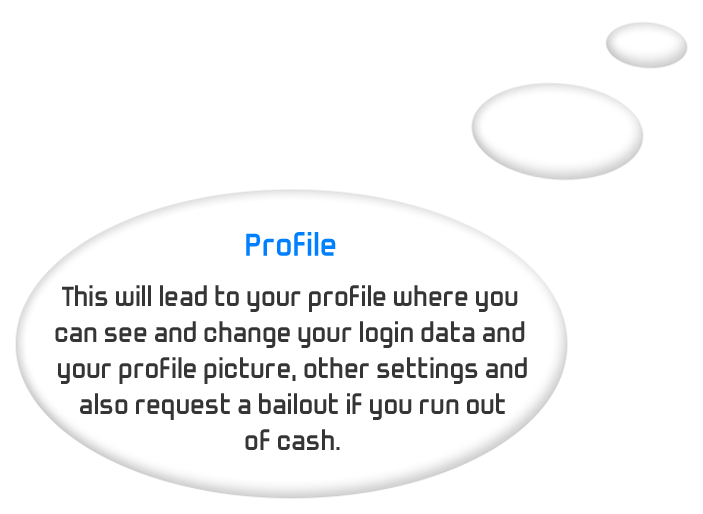
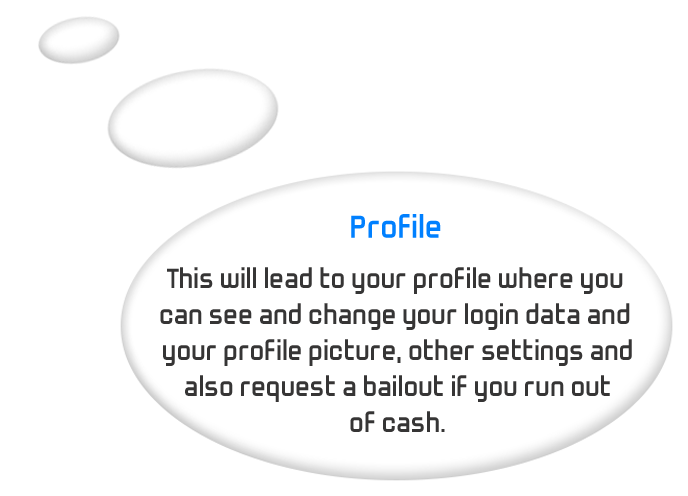
@vishal : intro screen in changes..

diff --git a/lib/screens/intro_screen.dart b/lib/screens/intro_screen.dart
@@ -16,9 +16,6 @@ import '../commonview/header.dart';
 import 'dashboard_game.dart';
 import '../helper/constant.dart';
 
-
-
-
 class FadeRouteIntro extends PageRouteBuilder {
   final Widget page;
 
@@ -51,7 +48,7 @@ class IntroPage extends StatefulWidget {
 
 class IntroPageState extends State<IntroPage> {
   final GlobalKey<ScaffoldState> _scaffoldKey = new GlobalKey<ScaffoldState>();
-  int selectedType = Const.typeName;
+  int selectedType = Const.typeProfile;
 
   AnimationController controller;
   Animation<double> animation;
@@ -83,13 +80,10 @@ class IntroPageState extends State<IntroPage> {
     });*/
 
 //    controller.forward();
-
   }
-
 
   @override
   Widget build(BuildContext context) {
-
     return Scaffold(
       key: _scaffoldKey,
       backgroundColor: ColorRes.colorBgDark,
@@ -99,7 +93,7 @@ class IntroPageState extends State<IntroPage> {
           width: double.infinity,
           child: Stack(
             children: <Widget>[
-              CommonView.showDashboardView(context,null),
+              CommonView.showDashboardView(context, null),
               HeaderView(
                 scaffoldKey: _scaffoldKey,
                 isShowMenu: true,
@@ -138,7 +132,11 @@ class IntroPageState extends State<IntroPage> {
             opacity: 0.1,
           ),
           SizedBox(
-            width: 12,
+            width: 7,
+          ),
+          Opacity(
+            child: showProfile(context),
+            opacity: selectedType == Const.typeProfile ? 1 : 0,
           ),
           Expanded(
             child: Opacity(
@@ -183,7 +181,7 @@ class IntroPageState extends State<IntroPage> {
           showHeaderItem(Const.typeMoney, context),
           Opacity(
             child: showProfile(context),
-            opacity: selectedType == Const.typeProfile ? 1 : 0,
+            opacity: selectedType == Const.typeProfile ? 0 : 0,
           ),
         ],
       ),
@@ -288,7 +286,7 @@ class IntroPageState extends State<IntroPage> {
         child: Container(
           width: 30,
           height: 30,
-          margin: EdgeInsets.symmetric(horizontal: 5),
+          margin: EdgeInsets.symmetric(horizontal: 0),
           decoration: BoxDecoration(
               shape: BoxShape.circle,
               image: DecorationImage(
@@ -669,6 +667,22 @@ class IntroPageState extends State<IntroPage> {
         children: <Widget>[
           //-----------
 
+          selectedType == Const.typeProfile
+              ? Positioned(
+                  top: 60,
+                  right: Utils.getDeviceWidth(context) / 2.3,
+//            right: Utils.getDeviceWidth(context) / 2.9,
+                  child: InkResponse(
+                    child: Image(
+                      image:
+                          AssetImage(Utils.getAssetsImg("intro_bub_profile")),
+                      height: Utils.getDeviceHeight(context) / 1.9,
+                    ),
+                    onTap: () {},
+                  ),
+                )
+              : Container(),
+
           selectedType == Const.typeName
               ? Positioned(
                   top: 65,
@@ -755,22 +769,6 @@ class IntroPageState extends State<IntroPage> {
                     child: Image(
                       image: AssetImage(Utils.getAssetsImg("intro_bub_cash")),
                       height: Utils.getDeviceHeight(context) / 1.3,
-                    ),
-                    onTap: () {},
-                  ),
-                )
-              : Container(),
-
-          selectedType == Const.typeProfile
-              ? Positioned(
-                  top: 60,
-                  left: Utils.getDeviceWidth(context) / 1.9,
-//            right: Utils.getDeviceWidth(context) / 2.9,
-                  child: InkResponse(
-                    child: Image(
-                      image:
-                          AssetImage(Utils.getAssetsImg("intro_bub_profile")),
-                      height: Utils.getDeviceHeight(context) / 1.9,
                     ),
                     onTap: () {},
                   ),
@@ -911,7 +909,7 @@ class IntroPageState extends State<IntroPage> {
               : Container(),
 //-------------------------------------------------------------------------------------------------------
 
-          selectedType == Const.typeName
+          selectedType == Const.typeProfile
               ? Container()
               : Positioned(
                   top: Utils.getDeviceHeight(context) / 2.35,
@@ -924,11 +922,12 @@ class IntroPageState extends State<IntroPage> {
                     ),
                     onTap: () {
 //                      if(currentVol != 0) {
-                        Utils.playClickSound();
+                      Utils.playClickSound();
 //                      }
 
                       setState(() {
-                        if (selectedType == Const.typeName) {
+
+                        if (selectedType == Const.typeProfile) {
                           selectedType = Const.typeRanking;
                         } else if (selectedType == Const.typeRanking) {
                           selectedType = Const.typePL;
@@ -947,8 +946,8 @@ class IntroPageState extends State<IntroPage> {
                         } else if (selectedType == Const.typeNewCustomer) {
                           selectedType = Const.typeBusinessSector;
                         } else if (selectedType == Const.typeBusinessSector) {
-                          selectedType = Const.typeProfile;
-                        } else if (selectedType == Const.typeProfile) {
+//                          selectedType = Const.typeProfile;
+//                        } else if (selectedType == Const.typeProfile) {
                           selectedType = Const.typeMoney;
                         } else if (selectedType == Const.typeMoney) {
                           selectedType = Const.typeBrandValue;
@@ -956,10 +955,12 @@ class IntroPageState extends State<IntroPage> {
                           selectedType = Const.typeSalesPersons;
                         } else if (selectedType == Const.typeBrandValue) {
                           selectedType = Const.typeServicesPerson;
-                        } else if (selectedType == Const.typeEmployee) {
-                          selectedType = Const.typeName;
                         } else if (selectedType == Const.typeSalesPersons) {
                           selectedType = Const.typeEmployee;
+                        } else if (selectedType == Const.typeEmployee) {
+                          selectedType = Const.typeName;
+                        } else if (selectedType == Const.typeName) {
+                          selectedType = Const.typeProfile;
                         }
                       });
                     },
@@ -979,7 +980,7 @@ class IntroPageState extends State<IntroPage> {
                         ),
                         onTap: () {
 //                          if(currentVol != 0) {
-                            Utils.playClickSound();
+                          Utils.playClickSound();
 //                          }
                           setState(() {
                             Navigator.pushAndRemoveUntil(context,
@@ -999,14 +1000,14 @@ class IntroPageState extends State<IntroPage> {
                     onTap: () {
 //                      AudioManager.STREAM_SYSTEM;
 
-
-
 //                      if(currentVol != 0) {
-                        Utils.playClickSound();
+                      Utils.playClickSound();
 //                      }
 
                       setState(() {
-                        if (selectedType == Const.typeName) {
+                        if (selectedType == Const.typeProfile) {
+                          selectedType = Const.typeName;
+                        } else if (selectedType == Const.typeName) {
                           selectedType = Const.typeEmployee;
                         } else if (selectedType == Const.typeSalesPersons) {
                           selectedType = Const.typeServicesPerson;
@@ -1017,8 +1018,8 @@ class IntroPageState extends State<IntroPage> {
                         } else if (selectedType == Const.typeServicesPerson) {
                           selectedType = Const.typeBrandValue;
                         } else if (selectedType == Const.typeMoney) {
-                          selectedType = Const.typeProfile;
-                        } else if (selectedType == Const.typeProfile) {
+//                          selectedType = Const.typeProfile;
+//                        } else if (selectedType == Const.typeProfile) {
                           selectedType = Const.typeBusinessSector;
                         } else if (selectedType == Const.typeBusinessSector) {
                           selectedType = Const.typeNewCustomer;

diff --git a/lib/screens/ranking.dart b/lib/screens/ranking.dart
@@ -112,10 +112,10 @@ class _RankingPageState extends State<RankingPage> {
     return Column(
       mainAxisAlignment: MainAxisAlignment.spaceBetween,
       children: <Widget>[
-        showLeftItem(0),
-        showLeftItem(1),
-        showLeftItem(2),
-        showLeftItem(3),
+        showLeftItem(0,StringRes.revenue),
+        showLeftItem(1,StringRes.profit),
+        showLeftItem(2,StringRes.customers),
+        showLeftItem(3,StringRes.brand),
       ],
     );
   }
@@ -303,7 +303,7 @@ class _RankingPageState extends State<RankingPage> {
         selectedLeftCategory != index ? "ranking_bg_gray" : "rankinf_bg_blue"));
   }
 
-  showLeftItem(int index) {
+  showLeftItem(int index, String title) {
     return Expanded(
       flex: 1,
       child: InkResponse(
@@ -323,8 +323,16 @@ class _RankingPageState extends State<RankingPage> {
           padding: EdgeInsets.all(25),
           decoration:
               BoxDecoration(image: DecorationImage(image: getBgImage(index))),
-          child: Image(
-            image: AssetImage(Utils.getAssetsImg(getInnerImage(index))),
+          child: Column(
+            children: <Widget>[
+              Expanded(child: Image(
+                image: AssetImage(Utils.getAssetsImg(getInnerImage(index))),
+              )),
+              Container(
+//                height: 10,
+//                child: Text(title),
+              )
+            ],
           ),
         ),
       ),

diff --git a/lib/commonview/header.dart b/lib/commonview/header.dart
@@ -6,7 +6,9 @@ import 'package:ke_employee/helper/constant.dart';
 import 'package:ke_employee/helper/header_utils.dart';
 import 'package:ke_employee/helper/res.dart';
 import 'package:ke_employee/injection/dependency_injection.dart';
+import 'package:ke_employee/screens/home.dart';
 import 'package:ke_employee/screens/intro_screen.dart';
+import 'package:ke_employee/screens/profile.dart';
 import 'package:percent_indicator/linear_percent_indicator.dart';
 
 class HeaderView extends StatefulWidget {
@@ -214,6 +216,8 @@ class HeaderViewState extends State<HeaderView> {
         onTap: () {
           Utils.playClickSound();
           widget.openProfile();
+//          Navigator.push(context, MaterialPageRoute(builder: (context) => FadeRouteHome()));
+
         });
   }
 

diff --git a/lib/helper/string_res.dart b/lib/helper/string_res.dart
@@ -79,6 +79,10 @@ class StringRes {
   static var score = "score";
   static var companyName = "companyName";
   static var situation = "situation";
+  static var revenue = "revenue";
+  static var profit = "profit";
+  static var customers = "customers";
+  static var brand = "brand";
 
   //business sectors
 
@@ -168,7 +172,11 @@ class StringRes {
       'sound': 'Sound',
       'successProfileUpdate': 'Profile updated successfully!',
       'score': 'Score',
-      'companyName': 'Company Name'
+      'companyName': 'Company Name',
+      'revenue': "Revenue",
+      'profit': "Profit",
+      'customers': "Customers",
+      'brand': "Brand"
     },
     'es': {
       'title': 'Hola Mundo',

diff --git a/lib/screens/base_page.dart b/lib/screens/base_page.dart
@@ -16,7 +16,7 @@ class _BasePageState extends State<BasePage> {
   Widget build(BuildContext context) {
     return Scaffold(
       key: _scaffoldKey,
-      body: HeaderView(isShowMenu: true,scaffoldKey: _scaffoldKey,openProfile: null),
+      body: HeaderView(isShowMenu: true,scaffoldKey: _scaffoldKey, openProfile: null),
     );
   }
 }
